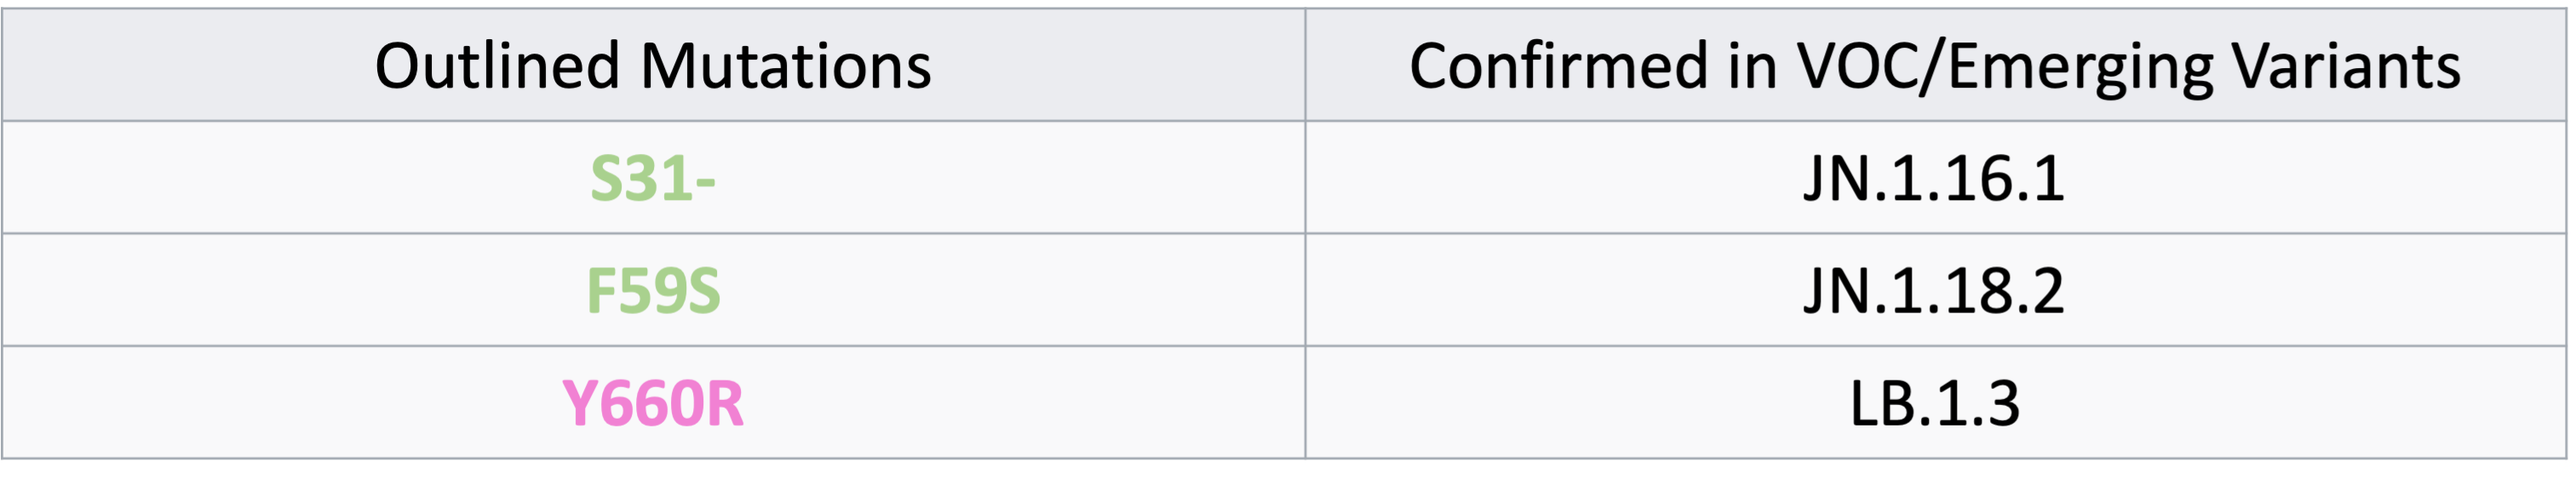
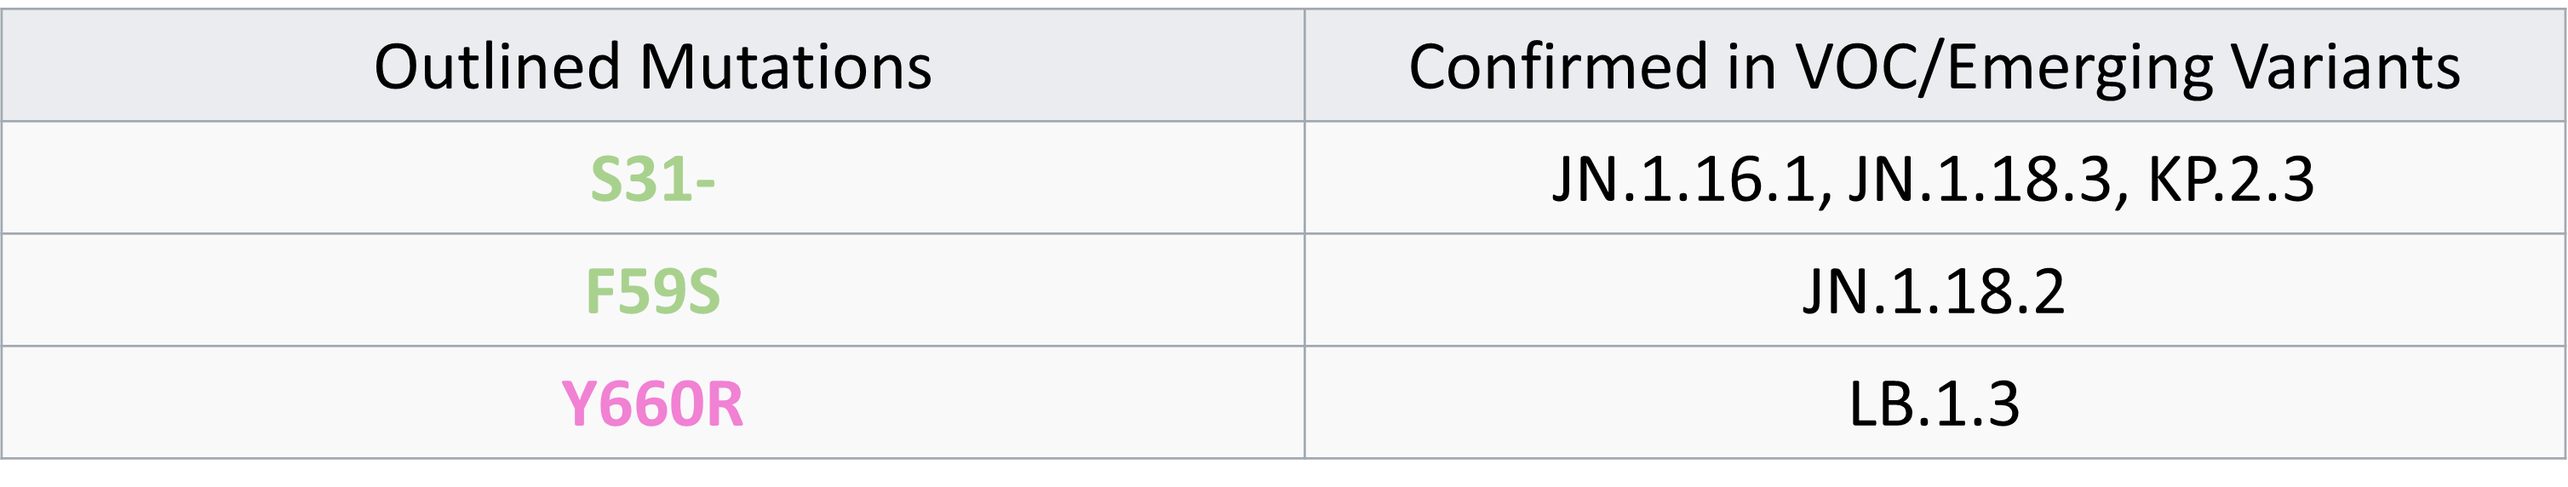
Updated variants information of latest outlined leading mutations

diff --git a/_news/announcement_3.md b/_news/announcement_3.md
@@ -1,9 +1,9 @@
 ---
 layout: post
-date: 2024-05-30 12:00:00
+date: 2024-06-28 00:00:00
 inline: true
 related_posts: false
 ---
 
-<a href="{{ '/Updates/' | relative_url }}" style="color: inherit;">Variants information of latest outlined mutations that are confirmed in VOC/emerging variants are updated. </a>
+<a href="{{ '/Updates/' | relative_url }}" style="color: inherit;">Variants information of latest outlined mutations that are confirmed in VOC/emerging variants are updated! </a>
 

diff --git a/_pages/Updates.md b/_pages/Updates.md
@@ -62,7 +62,7 @@ $(document).ready(function(){
   {% include figure.html path="assets/img/update_2406/2024-06.png" title="example image" class="img-fluid rounded z-depth-1" %}
   <br>
   <br>
-  <strong>2024.05.31-2024.06.20</strong>
+  <strong>2024.05.31-2024.06.28</strong>
   <hr>
   {% include figure.html path="assets/img/update_2406/confirmed_202406.png" title="example image" class="img-fluid rounded z-depth-1" %}
   <br>

diff --git a/_news/announcement_2.md b/_news/announcement_2.md
@@ -1,9 +1,9 @@
 ---
 layout: post
-date: 2024-06-06 14:00:00
+date: 2024-06-01 00:00:00
 inline: true
 related_posts: false
 ---
 
-<a href="{{ '/Updates/' | relative_url }}" style="color: inherit;">Outlined mutations in 2024.06 are published!</a>
+<a href="{{ '/Updates/' | relative_url }}" style="color: inherit;">Outlined mutations in 2024.06 are published.</a>
 

diff --git a/_news/announcement_1.md b/_news/announcement_1.md
@@ -1,6 +1,6 @@
 ---
 layout: post
-date: 2024-01-01 09:00:00
+date: 2024-01-01 00:00:00
 inline: true
 related_posts: false
 ---

diff --git a/_news/announcement_4.md b/_news/announcement_4.md
@@ -1,6 +1,6 @@
 ---
 layout: post
-date: 2024-05-23 12:00:00
+date: 2024-05-23 00:00:00
 inline: true
 related_posts: false
 ---
